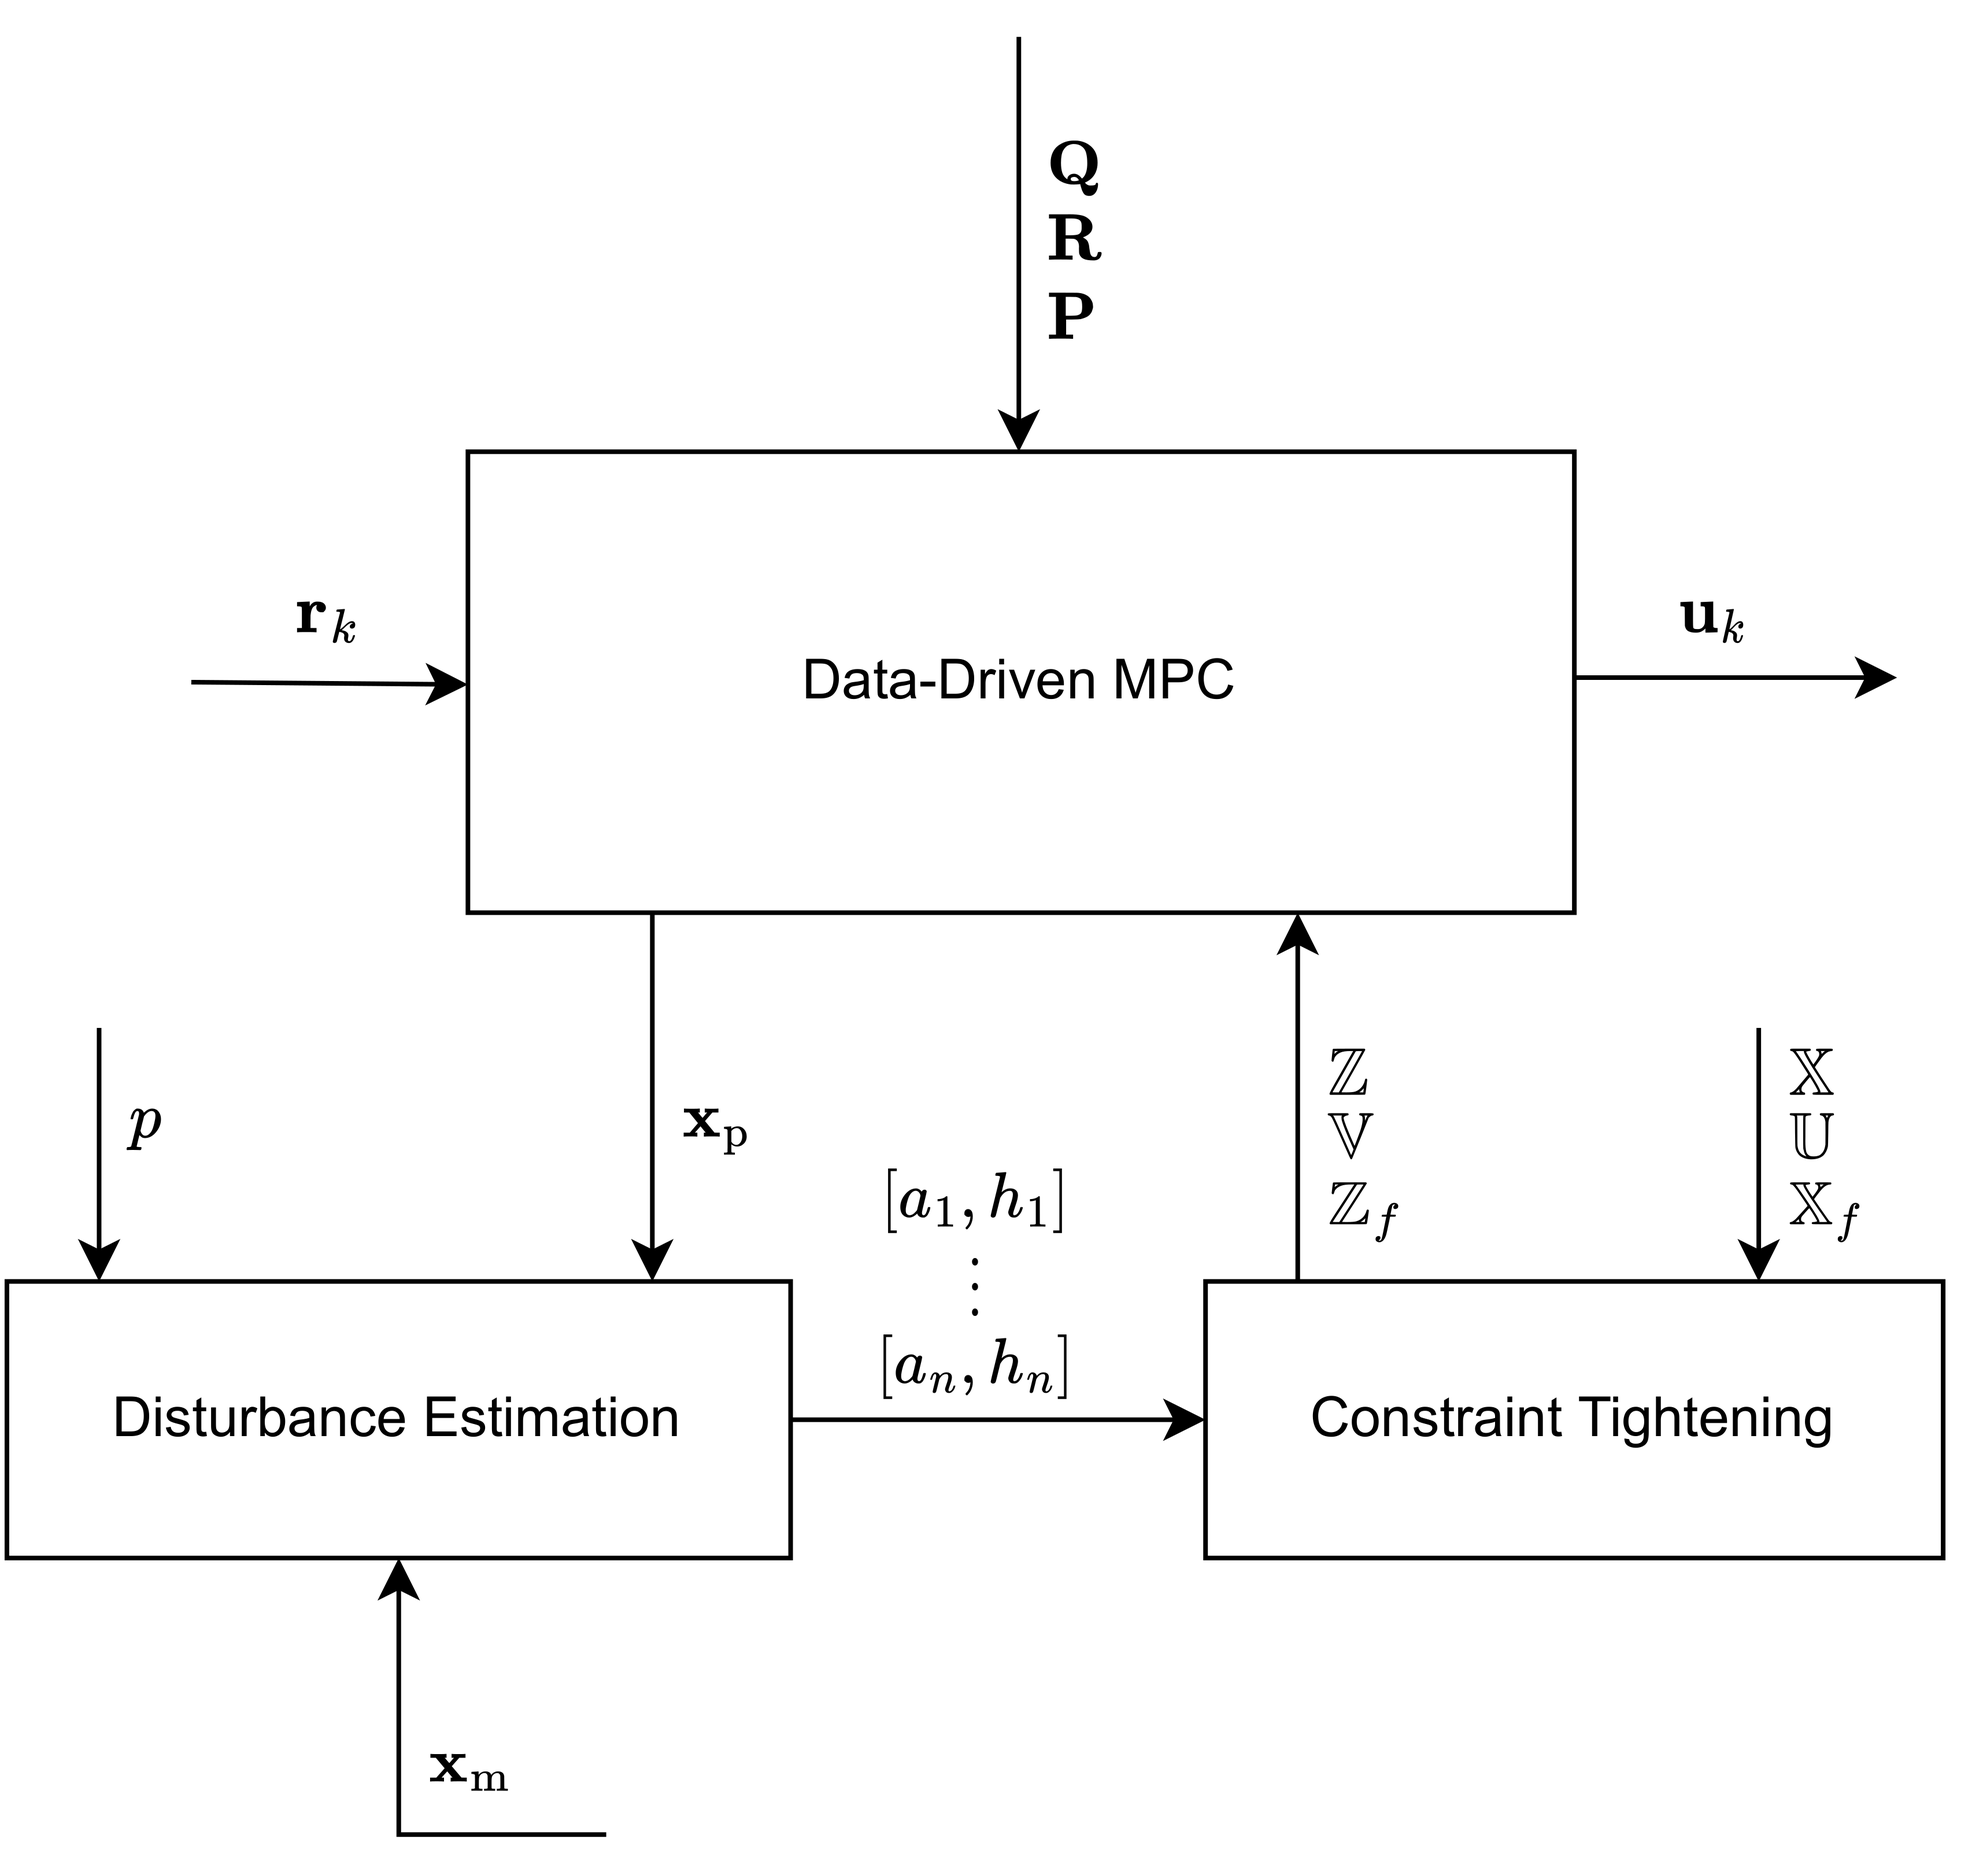
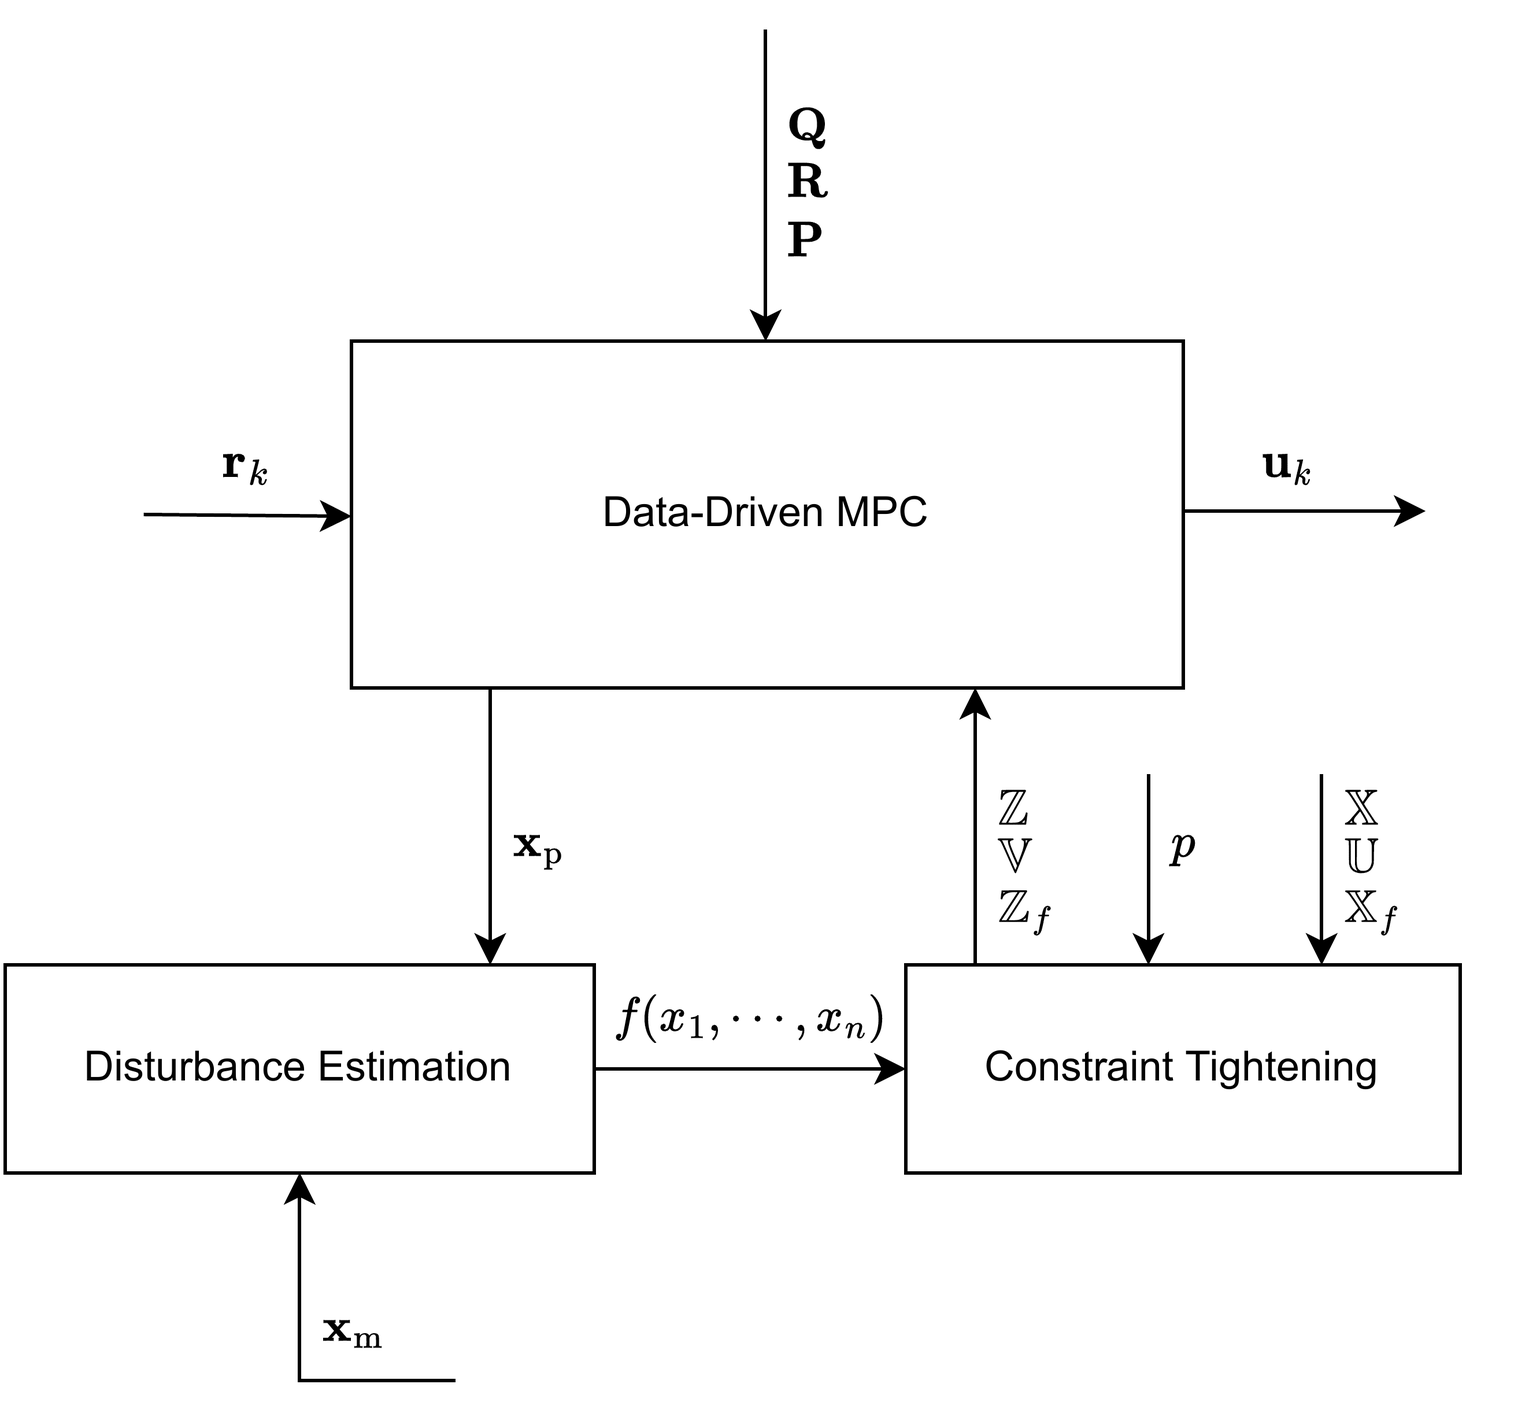
Change figure for low level controller overview

diff --git a/README.md b/README.md
@@ -1,9 +1,10 @@
-# Data Driven Stochastic MPC with Online Disturbance Estimation and Constraint Tightening
+# Data-Driven Stochastic MPC with Online Disturbance Estimation and Constraint Tightening
 
-The DDSMPC control scheme implemented in this repository corresponds to the Master Thesis "Data Driven Stochastic MPC with Online Disturbance Estimation and Constraint Tightening" of Matthias Schöffel and is currently under development.
+The DDSMPC control scheme implemented in this repository corresponds to the Master Thesis "Data-Driven Stochastic MPC with Online Disturbance Estimation and Constraint Tightening" of [Matthias Schöffel](https://www.linkedin.com/in/matthias-sch%C3%B6ffel-431b57142/) and is currently under development.
+
 The implemented algorithm adapts to the environment it is placed in and is able to satisfy constraints up to a specified probability level in the face of time-varying disturbances.
 
-To run the system clone the repository and then run the following in the root folder:
+To run the system clone the repository and then run the following commands in the root folder:
 
 > pip install .
 
@@ -16,15 +17,15 @@ The implemented algorithm takes concepts from Stochastic Model Predictive Contro
 ![Alt text](figures_thesis/overview/High_Level_DDSMPC.png?raw=true "Title")
 
 ### Stochastic Model Predictive Control
-In MPC an optimal control problem is iteratively solved for a finite horizon. Informally MPC finds the optimal next input by comparing the predicted trajectories of different control sequences and then applying the first input of the optimal input sequence. More information on MPC can be found here: [MPC](https://de.wikipedia.org/wiki/Model_Predictive_Control)
+In MPC an optimal control problem is iteratively solved for a finite horizon. Informally, MPC finds the optimal next input by comparing the predicted trajectories of different control sequences and then applying the first input of the optimal input sequence. More information on MPC can be found here: [MPC](https://de.wikipedia.org/wiki/Model_Predictive_Control)
 
-One of the big advantages of SMPC is the ability to enforce constraints on both the states and the input. In SMPC these constraints only have to be satisfied up to a specified probability. More information about SMPC can be found here: [SMPC](https://web.stanford.edu/class/ee364b/lectures/stoch_mpc_slides.pdf)
+One of the big advantages of SMPC is the ability to enforce constraints on both the states and the input. In SMPC these constraints only have to be satisfied up to a specified probability level. More information about SMPC can be found here: [SMPC](https://web.stanford.edu/class/ee364b/lectures/stoch_mpc_slides.pdf)
 
 ### Trajectory-Based Representation of LTI-Systems
-MPC controllers need a model of the system dynamics to predict finite horizon trajectories based on different control sequences. Traditionally the system dynamics of MPC controllers are specified by state-space equations. An alternative method is to only use a single input-state trajectory to specify the system dynamics. This method is used in the implemented Data Driven MPC algorithm of this repository.
+MPC controllers need a model of the system dynamics to predict finite horizon trajectories based on different control sequences. Traditionally the system dynamics of MPC controllers are specified by state-space equations. An alternative method is to only use a single input-state trajectory to specify the system dynamics. This method is used in the implemented Data-Driven MPC algorithm of this repository.
 
 ### Kernel Density Estimation
-Kernel Desity Estimation estimates probabilistic distributions based on samples of the distribution. A kernel function is placed on the position of every sample. The estimation of the distribution is created by summing up the kernel functions and normalizing the result. In DDSMPC scheme presented here a discount factor is introduced to discount older samples.
+Kernel Desity Estimation estimates probabilistic distributions based on samples of the distribution. A kernel function is placed on the position of every sample. The estimation of the distribution is created by summing up the kernel functions and normalizing the result. In the DDSMPC scheme implemented here a discount factor is introduced to discount older samples.
 
 ## Main Modules
 The control scheme features three main modules: [Data-Driven MPC](data_driven_mpc/), [Disturbance Estimation](disturbance_estimation/) and [Constraint Tightening](constraint_tightening/). Furthermore the real system is being simulated in [lti_system](lti_system/) and (hyper)parameters can be changed in [config](config/). The simulation is started in [simulation](simulation/)
@@ -35,7 +36,7 @@ The control scheme features three main modules: [Data-Driven MPC](data_driven_mp
 The Data-Driven MPC module receives a reference state **r_k**, cost matrices **Q**,**R** and **P** and tightened constraints **Z**, **V**, **Z_f**. It utilizes the [scipy.optimize.minimize](https://docs.scipy.org/doc/scipy/reference/generated/scipy.optimize.minimize.html) solver to find the optimal n-step trajectory based on the current state of the system and the inputs of the DDMPC module. It outputs the next input to the system and its predicted next state.
 
 ### [Disturbance Estimation](disturbance_estimation/)
-The disturbance estimation module receives both the predicted and actual state of the system. It utilizes the last n differences between the predicted and the actual state of the system to estimate the distribution of the disturbance via a discounted Kernel Density Estimation. It outputs the estimation of the distribution to the constraint [constraint_tightening](constraint_tightening/) module.
+The disturbance estimation module receives both the predicted and actual state of the system. It utilizes the last n differences between the predicted and the actual state of the system to estimate the distribution of the disturbance via a discounted Kernel Density Estimation. It outputs the estimation of the distribution to the [constraint_tightening](constraint_tightening/) module.
 
 ### [Constraint Tightening](constraint_tightening/)
 The constraint tightening module takes the disturbance distribution and projects in onto the constraints to get the confidence interval based on the risk parameter specified in [config.yaml](config/config.yaml).
